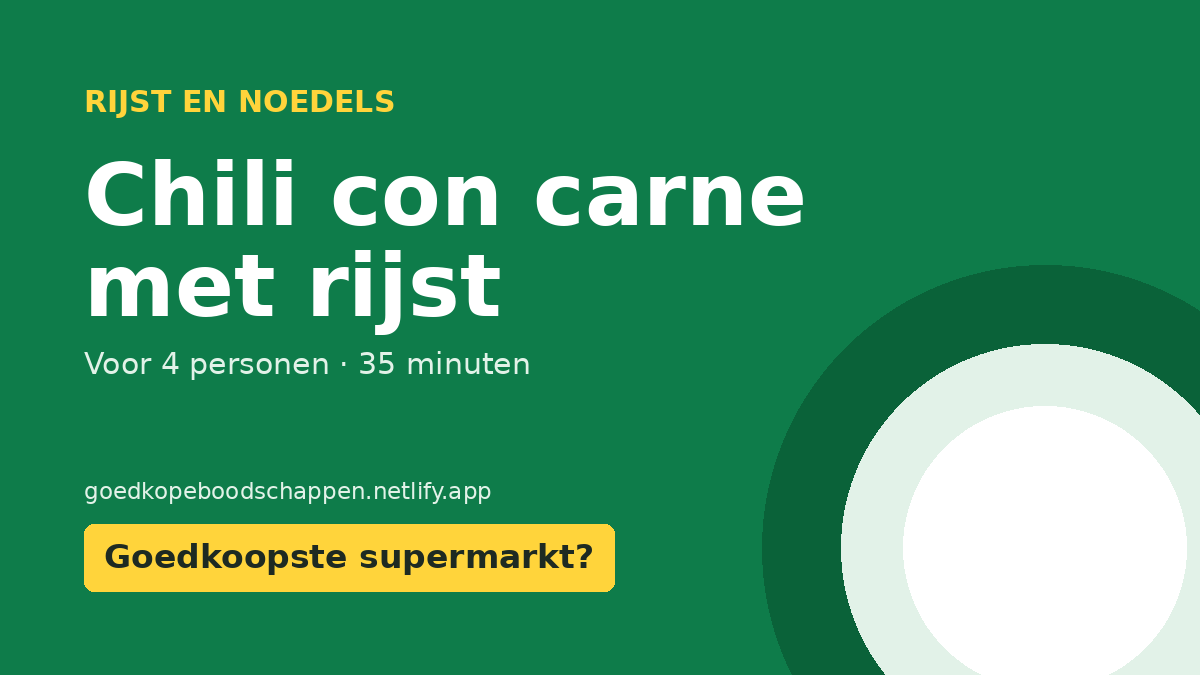
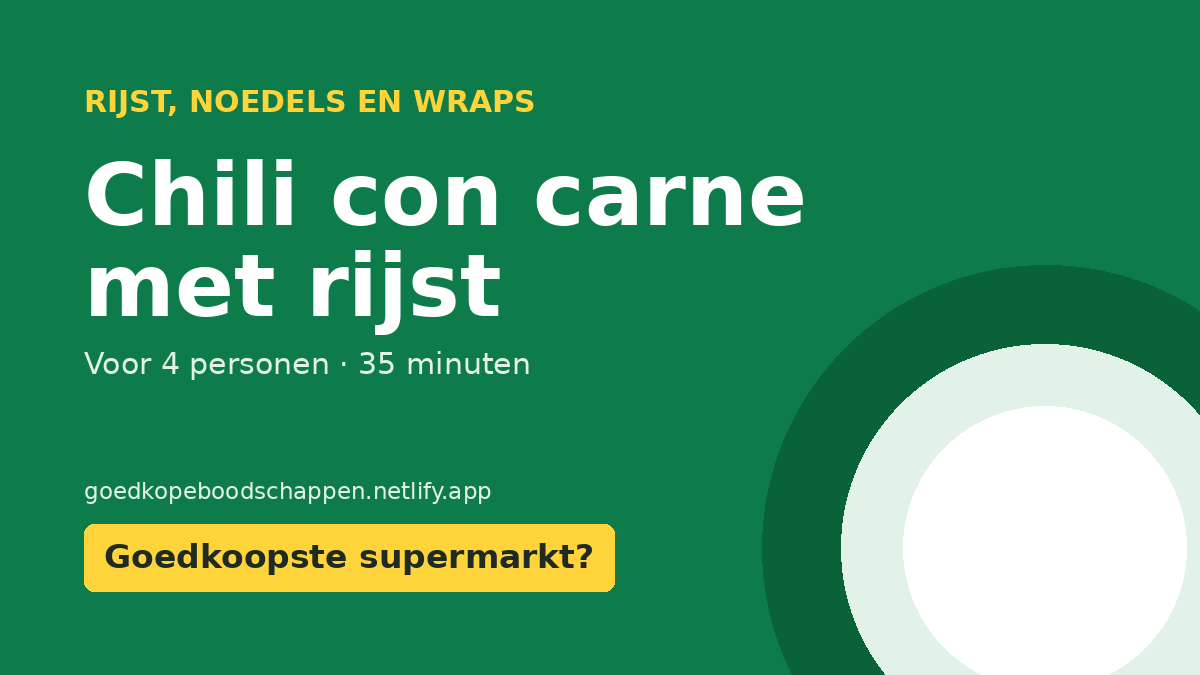
Werk in uitvoering: 39 nieuwe glutenvrije en caloriearme maaltijden (nog niet getest)
Claude-Session: https://claude.ai/code/session_019PF7mFHYVpjrzfeZoKPZYU

Changed region(s): [[0.1542, 0.1244, 0.4625, 0.1867]]

diff --git a/scripts/maaltijden_extra.py b/scripts/maaltijden_extra.py
@@ -1,0 +1,309 @@
+"""Extra recepten (oktober 2026): glutenvrij en caloriearm. Zelfde opbouw als maaltijden.py; wordt daar aan toegevoegd."""
+I_EXTRA = {
+    "zoete aardappel": (["zoete aardappelblokjes", "zoete aardappel blokjes", "zoete aardappelen", "zoete aardappel"], 90, .3, ["friet", "frites", "chips", "puree", "wedges", "soep", "partjes", "spiralen"]),
+    "limoen": (["limoenen", "limoen"], 30, .07, ["radler", "bier", "grolsch", "0.0", "sap", "siroop", "drink", "frisdrank", "taart", "blad", "rasp", "snoep", "water", "kalk", "geur", "zeep", "lime"]),
+    "citroen": (["citroenen", "citroen"], 30, .12, ["sap", "siroop", "drink", "frisdrank", "taart", "rasp", "snoep", "water", "thee", "gras", "geur", "zeep", "schoon", "afwas", "ijs", "limonade"]),
+    "bosui": (["bosui", "lente-ui", "lente uitjes", "bosuitjes"], 30, .1, ["soep", "saus"]),
+    "pompoen": (["flespompoen", "butternut pompoen", "pompoen"], 40, 1.0, ["soep", "pitten", "zaden", "blokjes", "puree", "ravioli", "taart", "kern", "olie", "spread", "hokkaido"]),
+    "pompoenblokjes": (["pompoenblokjes", "pompoen blokjes", "pompoen in blokjes", "flespompoen", "pompoen"], 40, None, ["soep", "pitten", "risotto", "zaden", "ravioli", "taart", "olie", "spread", "puree"]),
+    "knoflook": (["knoflook", "knoflookbol"], 130, .05, ["gemalen", "bot", "zeezout", "strooier", "saus", "poeder", "olie", "pasta", "brood", "dip", "kaas", "mayo", "chips", "pers", "gepeld", "gehakt", "puree", "boter", "korrels", "zwarte", "gedroogd", "vers gesneden", "worst", "salami", "toast", "ciabatta", "stokbrood"]),
+    "roomkaas kruiden": (["roomkaas knoflook kruiden", "roomkaas met kruiden", "kruidenroomkaas", "roomkaas kruiden"], 250, None, ["light", "vega", "zalm", "bieslook komkommer"]),
+    "tandoori pasta": (["tandoori kruidenpasta", "tandoori pasta", "kruidenmix kip tandoori", "mix voor kip tandoori", "kruidenmix tandoori"], 200, None, ["saus", "stoommaaltijd", "ovenschotel", "speklapjes", "wereldgerecht", "maaltijdpakket", "verspakket", "wrap", "tonight", "daily chef", "santa maria"]),
+    "kipfiletblokjes": (["kipfiletblokjes", "kipfilet blokjes", "kipblokjes", "kipfilet"], 110, None, ["gemarineerd", "gekruid", "shoarma", "kerrie", "tandoori", "pikant", "sate", "saté", "gerookt", "vega"]),
+    "cashewnoten": (["cashewnoten ongezouten", "cashewnoten naturel", "cashewnoten"], 580, None, ["gezouten", "honing", "chili", "mix", "pasta", "boter", "wasabi", "chocolade", "geroosterd zout", "pikant", "studenten"]),
+    "koriander": (["verse koriander", "koriander"], 25, None, ["naan", "brood", "hoemoes", "geitenkaas", "grootverpakking", "grote pot", "blad", "gemalen", "zaad", "gedroogd", "poeder", "diepvries"]),
+    "peterselie": (["verse peterselie", "platte peterselie", "krulpeterselie", "peterselie"], 40, None, ["gedroogd", "diepvries", "gemalen"]),
+    "munt": (["verse munt", "munt"], 40, None, ["thee", "snoep", "drop", "kauwgom", "chocolade", "gedroogd", "pastilles", "mints", "siroop", "saus"]),
+    "bieslook": (["verse bieslook", "bieslook"], 30, None, ["gedroogd", "roomkaas", "saus", "dip", "kaas", "diepvries", "mayo"]),
+    "salie": (["verse salie", "salie"], 40, None, ["gedroogd", "thee", "gemalen"]),
+    "paellarijst": (["paellarijst", "paella rijst", "risottorijst", "arborio"], 350, None, ["mix", "kant", "maaltijd", "pakket"]),
+    "ontbijtspek": (["bakbacon", "ontbijtspek", "bacon"], 400, None, ["rosti", "aviko", "vega", "chips", "kaas", "bites", "saus", "burger", "krokant", "bacon bits", "jam", "spread", "worst"]),
+    "augurken": (["augurken", "augurk"], 30, None, ["chips", "salade", "spread", "snack", "relish", "saus"]),
+    "yoghurt": (["halfvolle yoghurt", "magere yoghurt", "yoghurt naturel", "volle yoghurt"], 50, None, ["griekse", "drink", "aardbei", "vanille", "fruit", "kokos", "muesli", "kwark", "lactose", "soja", "plantaardig", "honing", "perzik", "framboos", "kers", "citroen", "mango", "skyr", "bulgaarse", "turkse"]),
+    "griekse yoghurt": (["griekse yoghurt", "yoghurt griekse stijl", "turkse yoghurt"], 120, None, ["honing", "fruit", "aardbei", "vanille", "light", "0%", "framboos", "perzik", "kers", "mango", "citroen", "drink"]),
+    "kabeljauw": (["kabeljauwfilet", "kabeljauwhaas", "kabeljauw", "koolvisfilet", "witvisfilet", "pangasiusfilet"], 80, None, ["gepaneerd", "kibbeling", "lekkerbek", "saus", "salade", "kruiden", "visstick", "gerookt", "rolletjes", "kat"]),
+    "venkel": (["venkel", "venkelknol"], 25, .3, ["zaad", "thee", "gemalen", "salami", "worst"]),
+    "quinoa": (["quinoa"], 360, None, ["salade", "mix", "kant", "maaltijd", "chips", "wafels", "pasta", "burger", "crackers", "pops", "puffs", "ontbijt"]),
+    "pecorino": (["pecorino", "pecorino romano"], 390, None, ["saus", "pesto", "pasta"]),
+    "gember": (["verse gember", "gemberwortel", "gember"], 80, .1, ["bakgember", "stemgember", "chinese", "power", "appel", "poeder", "gemalen", "siroop", "thee", "bier", "shot", "koek", "snoep", "gekonfijt", "ingelegd", "drink", "ale", "sushi", "chocolade", "bolus", "jam"]),
+    "biefstuk": (["bieflappen", "bieflap", "biefstuk", "runderbiefstuk"], 130, None, ["vega", "saus", "gemarineerd", "carpaccio", "tartaar", "gehakt", "gekruid", "ossenhaas", "rosbief", "kogel", "kipbiefstuk"]),
+    "sjalotten": (["sjalotten", "sjalot"], 70, .03, ["chutney", "vijgen", "gebakken", "chips", "saus", "poeder", "soep"]),
+    "groene paprika": (["groene paprika", "paprika groen", "paprika's", "paprika"], 20, .15, ["poeder", "chips", "gevuld", "mini", "snack", "rolnik", "pot", "reepjes"]),
+    "pitabroodjes": (["maaltijd pitabroodjes", "pitabroodjes", "pita broodjes", "pitabrood"], 260, .08, ["vul", "gyros", "shoarma", "chips", "salade", "mini", "glutenvrij"]),
+    "volkoren pita": (["volkoren pitabroodjes", "volkoren pita"], 250, .07, ["mini", "glutenvrij"]),
+    "geitenkaas": (["zachte geitenkaas", "geitenkaas naturel", "verse geitenkaas", "geitenkaas"], 250, None, ["honing", "plakken", "jong", "belegen", "oud", "geraspt", "salade", "spread", "pizza", "dip", "zwitserse", "kruiden", "tapas"]),
+    "volkorenpasta": (["volkoren penne", "volkorenpasta", "volkoren pasta", "volkoren fusilli"], 350, None, ["salade", "saus", "glutenvrij", "mix"]),
+    "volkorenspaghetti": (["volkoren spaghetti", "volkorenspaghetti"], 350, None, ["saus", "glutenvrij", "bolognese"]),
+    "roerbakgroente": (["italiaanse roerbakgroente", "italiaanse wokgroente", "roerbakgroente italiaans", "mediterrane roerbak", "roerbakgroente", "wokgroente"], 30, None, ["saus", "kip", "mie", "noodles", "rijst", "kruiden", "oosterse", "chinese", "thaise", "pittig", "teriyaki"]),
+    "kappertjes": (["kappertjes"], 25, None, ["appels", "boter", "saus", "tapenade", "olie"]),
+    "volkoren wraps": (["volkoren wraps", "volkoren tortilla", "wraps volkoren", "tortilla volkoren", "meergranen wraps"], 300, .04, ["chips", "glutenvrij", "mini", "pizza"]),
+    "bulgur": (["bulgur", "bulghur"], 350, None, ["salade", "mix", "kant", "maaltijd", "pilav"]),
+    "sambal": (["sambal oelek", "sambal"], 70, None, ["bajak", "manis", "badjak", "ijs", "chips", "kroepoek", "saus", "goreng", "terasi", "trassi", "pindasaus", "brandal"]),
+    "aubergine": (["aubergines", "aubergine"], 25, .3, ["gegrild", "pot", "saus", "ovengroente", "dip", "moussaka", "spread", "tapas", "salade"]),
+    "slagroom": (["slagroom", "verse slagroom", "kookroom"], 340, None, ["spuit", "spray", "taart", "ijs", "vla", "toetje", "plantaardig", "light", "gezoet", "poeder", "bus", "klopper", "stevig", "kers", "vanille"]),
+    "parmezaanse snippers": (["parmezaanse kaas snippers", "parmigiano snippers", "parmezaanse kaas", "grana padano"], 400, None, ["salami", "truffel", "worst", "saus", "pesto", "pasta", "chips", "crackers"]),
+    "kikkererwten": (["kikkererwten"], 120, None, ["meel", "chips", "snack", "salade", "spread", "hummus", "humus", "falafel", "curry", "soep", "gedroogd", "pasta", "geroosterd"]),
+    "zongedroogde tomaten": (["zongedroogde tomaten", "gedroogde tomaten", "zongedroogde tomaatjes", "pomodori secchi"], 200, None, ["pesto", "tapenade", "spread", "saus", "chips", "crackers", "brood", "dip", "kaas", "worst", "hummus", "pasta"]),
+    "mexicaanse groenten": (["mexicaanse groenten", "mexicaanse groentemix", "mexicaanse groenteschotel", "mexicaanse bonen"], 80, None, ["chips", "kruiden", "saus", "rijst", "maaltijd", "soep"]),
+    "eidooiers": (["scharreleieren", "eieren"], 140, .06, ["paas", "gekookt", "chocolade"]),
+    "tomaten rijp": (["roma tomaten", "pruimtomaten", "trostomaten", "tomaten"], 20, .1, ["cherry", "snoep", "blik", "blokjes", "gepeld", "gezeefd", "puree", "zongedroogd", "pomodori", "gedroogd"]),
+}
+
+I_EXTRA.update({
+    "edamame": (["edamame bonen", "edamamebonen", "edamame"], 120, None, ["snack", "gezouten", "chips", "dip", "spread", "noodles"]),
+    "bloemkoolrijst": (["bloemkoolrijst", "bloemkool rijst"], 25, None, ["kant", "nasi", "maaltijd", "kruiden", "mix", "bowl"]),
+    "pindakaas": (["pindakaas naturel", "pindakaas"], 600, None, ["chocolade", "reep", "koek", "saus", "vulling", "kokos", "honing", "chili", "crunchy chocolate"]),
+    "babymais": (["babymais", "baby mais", "minimais", "maiskolfjes"], 30, None, ["chips", "zuur", "pot", "glas"]),
+    "honing": (["honing", "bloemenhoning"], 330, None, ["mosterd", "yoghurt", "thee", "dressing", "saus", "drop", "snoep", "koek", "cereal", "pops", "cruesli", "loops", "granola", "kip", "ham", "nootjes", "pinda", "cashew", "gezichts", "shampoo", "zeep", "douche", "bodylotion"]),
+    "besciamelsaus": (["bechamelsaus", "béchamelsaus", "besciamella", "witte saus voor lasagne", "lasagnesaus wit", "lasagne witte saus"], 120, None, ["mix", "poeder", "pakje", "rode", "bolognese"]),
+    "aardappelschijfjes": (["aardappelschijfjes", "aardappel schijfjes"], 80, None, ["gekruid", "rozemarijn", "chips", "gratin", "kaas", "spek"]),
+    "panko": (["panko", "paneermeel"], 370, None, ["vis", "kip", "glutenvrij", "kruiden"]),
+    "spaghettigroente": (["macaroni spaghettigroente", "macaroni-spaghettigroente", "spaghettigroente", "spaghetti groente", "macaronigroente", "italiaanse roerbakgroente", "roerbakgroente italiaans", "italiaanse wokgroente", "roerbakgroente", "wokgroente"], 30, None, ["saus", "kruiden", "mix voor", "kip", "mie", "noodles", "rijst", "oosterse", "chinese", "thaise", "pittig", "teriyaki"]),
+    "chipotlesaus": (["chipotle saus", "chipotlesaus", "chipotle"], 120, None, ["chips", "mayo", "kip", "worst", "kruiden", "dip", "burger", "wrap"]),
+    "veldsla": (["veldsla"], 20, None, ["salade", "mix", "dressing", "kaas", "rucola"]),
+    "tzatziki": (["tzatziki", "knoflooksaus tzatziki"], 110, None, ["kruiden", "mix", "chips", "pot", "salade"]),
+    "witte bonen": (["witte bonen", "cannellini bonen", "witte bonen in water"], 90, None, ["tomatensaus", "saus", "salade", "soep", "spek", "ham", "worst", "gedroogd"]),
+    "olijven": (["groene olijven zonder pit", "zwarte olijven zonder pit", "olijven zonder pit", "olijven"], 150, None, ["olie", "tapenade", "gevuld", "knoflook", "kruiden", "paprika", "feta", "brood", "crackers", "chips", "mix", "tapas", "spread", "salami", "pizza"]),
+    "maiskolf": (["maiskolven", "maiskolf", "mais kolf"], 90, .25, ["chips", "baby", "mini", "pop", "olie", "meel"]),
+    "linzen gekookt": (["linzen in zak", "linzen", "groene linzen", "bruine linzen"], 100, None, ["rode", "soep", "chips", "pasta", "salade", "gedroogd", "curry", "spread", "dahl", "dal", "snack"]),
+    "blonde linzen": (["blonde linzen", "gedroogde linzen", "groene linzen", "bruine linzen", "linzen"], 330, None, ["rode", "soep", "chips", "pasta", "salade", "curry", "spread", "dahl", "dal", "snack", "pot", "blik", "zak", "gekookt"]),
+    "tuinbonen": (["tuinbonen", "tuinboontjes"], 70, None, ["pot", "blik", "spek", "gedroogd"]),
+    "stokbrood": (["volkoren stokbrood", "bruin stokbrood", "stokbrood", "baguette"], 250, .25, ["kruiden", "knoflook", "mini", "pizza", "afbak", "glutenvrij", "kaas"]),
+    "pijnboompitten": (["pijnboompitten"], 670, None, ["pesto", "mix", "salade"]),
+    "basilicum": (["verse basilicum", "basilicum"], 25, None, ["gedroogd", "pesto", "saus", "tomaten", "pasta", "olie", "kaas", "gemalen", "blokjes", "diepvries", "dip", "spread"]),
+    "amandelschaafsel": (["amandelschaafsel", "geschaafde amandelen", "amandelen geschaafd"], 600, None, ["chocolade", "koek", "melk", "drink", "spijs"]),
+    "kalkoenfilet": (["kalkoenfilet", "kalkoen filet", "kalkoenschnitzel"], 110, None, ["gerookt", "gerookte", "plakjes", "beleg", "vleeswaren", "gebraden", "kat", "hond", "paneer"]),
+    "volkorenbrood": (["volkoren brood", "volkorenbrood", "volkoren boterhammen", "tarwe volkoren"], 230, .035, ["beschuit", "crackers", "toast", "glutenvrij", "pita", "wraps", "stokbrood", "bollen", "broodjes", "mix", "meel"]),
+    "snijbonen": (["snijbonen"], 30, None, ["pot", "blik", "glas", "zuur"]),
+    "rode peper": (["rode peper", "rode pepers", "chilipeper", "spaanse peper"], 40, .02, ["saus", "poeder", "gedroogd", "vlokken", "pasta", "chips", "kaas", "gemalen", "worst", "zoete", "flakes", "olie", "sambal"]),
+    "tomaten blik": (["gepelde tomaten", "san marzano", "tomaten in blik", "tomatenblokjes"], 25, None, ["kruiden", "basilicum", "knoflook", "paprika", "cherry", "puree"]),
+    "kipfilet stuks": (["kipfilet"], 110, .15, ["gerookt", "gerookte", "chili", "gemarineerd", "mexicaan", "tandoori", "piri", "kebab", "pikant", "honing", "shoarma", "gegrild", "kruiden", "sweet", "beleg", "plakken", "vleeswaren", "gebraden"]),
+})
+GLUTEN_EXTRA2 = {"panko", "stokbrood", "volkorenbrood", "besciamelsaus"}
+GLUTEN_EXTRA = {"volkorenpasta", "volkorenspaghetti", "volkoren pita", "pitabroodjes", "volkoren wraps", "bulgur"} | GLUTEN_EXTRA2
+LET_OP_EXTRA = {"tandoori pasta", "chipotlesaus", "aardappelschijfjes", "tzatziki"}
+LET_OP_WOORDEN_EXTRA = ("tandoori", "shakshuka", "garam masala", "viskruiden")
+
+def _o(k, q, n): return (k, q, n, "o")
+def _v(n, q, kcal=300): return ("olie", q, n, "v", kcal)
+OLIE = lambda q, n="Olie, peper en zout": ("olie", q, n, "v", 880)
+MAALTIJDEN_EXTRA = [
+    {"slug": "zoete-aardappelcurry", "naam": "Zoete-aardappelcurry met bloemkool en rijst", "soort": "wereld", "tijd": 30,
+     "bron": ("Jumbo", "https://www.jumbo.com/recepten/zoete-aardappelcurry-504005"),
+     "ing": [("zoete aardappel", .4, "Zoete aardappelblokjes"), ("bloemkool", .2, "Bloemkoolroosjes"), ("kokosmelk", .4, "Kokosmelk"), ("rijst", .25, "Basmatirijst"),
+             ("cherrytomaten", .25, "Cherrytomaten"), ("uien", .1, "Ui"), _o("bosui", .03, "Bosuien (2)"), _o("limoen", .07, "Limoen"),
+             OLIE(.045, "Zonnebloemolie"), _v("Kerriepoeder (Indiase curry madras)", .015, 330)]},
+    {"slug": "pompoensoep", "naam": "Pompoensoep", "soort": "soep", "tijd": 25, "porties": 2,
+     "bron": ("Eef kookt zo", "https://www.eefkooktzo.nl/pompoensoep/"),
+     "ing": [("pompoen", .75, "Flespompoen"), ("aardappelen", .1, "Aardappel"), ("uien", .2, "Uien (2)"), ("knoflook", .01, "Knoflook (2 tenen)"),
+             _o("kookroom", .1, "Kookroom"), OLIE(.015, "Olijfolie, peper en zout"), _v("Komijn en kurkuma", .004, 350), _v("Bouillon (1 liter)", .01, 200)]},
+    {"slug": "gevulde-courgette", "naam": "Gevulde courgette met gehakt", "soort": "oven", "tijd": 45,
+     "bron": ("Eef kookt zo", "https://www.eefkooktzo.nl/gevulde-courgette/"),
+     "ing": [("courgette", 1.2, "Courgettes (4)"), ("gehakt", .3, "Gehakt"), ("paprika", .3, "Paprika's (1 rood, 1 groen)"), ("mais", .075, "Maïs"),
+             ("uien", .1, "Ui"), ("knoflook", .005, "Knoflook"), ("tomatenpuree", .015, "Tomatenpuree"), _o("geraspte kaas", .05, "Geraspte kaas"),
+             OLIE(.015, "Olijfolie, peper en zout"), _v("Kurkuma, paprikapoeder en peterselie", .006, 300)]},
+    {"slug": "preischotel-aardappel", "naam": "Preischotel met aardappel en roomkaas", "soort": "oven", "tijd": 40, "porties": 2,
+     "bron": ("Lekker en Simpel", "https://www.lekkerensimpel.com/preischotel-met-aardappel/"),
+     "ing": [("aardappelen", .4, "Aardappelen"), ("prei", .5, "Preien (2)"), ("roomkaas kruiden", .125, "Roomkaas met kruiden"), ("knoflook", .005, "Knoflook"),
+             ("geraspte kaas", .05, "Geraspte kaas"), _v("Zout en peper", .001, 0)]},
+    {"slug": "kip-tandoori-rijst", "naam": "Indiase kip tandoori met rijst", "soort": "wereld", "tijd": 20,
+     "bron": ("Jumbo", "https://www.jumbo.com/recepten/indiase-kip-tandoori-504803"),
+     "ing": [("kipfiletblokjes", .275, "Kipfiletblokjes"), ("rijst", .3, "Rijst"), ("tandoori pasta", .075, "Tandoori kruidenpasta"), ("paprika", .15, "Paprika"),
+             ("courgette", .3, "Courgette"), ("uien", .1, "Ui"), _o("cashewnoten", .03, "Cashewnoten"), _o("koriander", .008, "Verse koriander"),
+             _o("limoen", .07, "Limoen"), OLIE(.03, "Zonnebloemolie")]},
+    {"slug": "paella-met-kip", "naam": "Paella met kip", "soort": "rijst", "tijd": 25, "porties": 2,
+     "bron": ("Lekker en Simpel", "https://www.lekkerensimpel.com/paella-met-kip/"),
+     "ing": [("paellarijst", .15, "Paellarijst"), ("kipfilet", .25, "Kipfilet"), ("doperwten", .2, "Doperwten"), ("paprika", .15, "Paprika"),
+             ("tomaten", .2, "Tomaten (2)"), ("uien", .1, "Ui"), ("knoflook", .01, "Knoflook (2 tenen)"), _o("citroen", .06, "Citroen (scheutje sap)"),
+             _v("Kippenbouillon (500 ml)", .005, 200), _v("Paprikapoeder, zout en peper", .003, 300), OLIE(.01, "Olie")]},
+    {"slug": "turkse-linzensoep", "naam": "Turkse linzensoep", "soort": "soep", "tijd": 50, "porties": 5,
+     "bron": ("Eef kookt zo", "https://www.eefkooktzo.nl/linzensoep-turkse-linzensoep/"),
+     "ing": [("rode linzen", .175, "Rode linzen"), ("aardappelen", .2, "Aardappelen (2 kleine)"), ("winterpeen", .3, "Wortels (2)"), ("tomaten", .2, "Tomaten (2)"),
+             ("uien", .1, "Ui"), ("knoflook", .005, "Knoflook"), ("tomatenpuree", .008, "Tomatenpuree"),
+             _v("Bouillonblokje", .01, 200), _v("Paprikapoeder en chilivlokken", .004, 300), OLIE(.015, "Olie")]},
+    {"slug": "vis-ovenschotel-spinazie", "naam": "Vis-ovenschotel met spinazie en puree", "soort": "oven", "tijd": 50,
+     "bron": ("Uit Pauline's Keuken", "https://uitpaulineskeuken.nl/recept/vis-ovenschotel"),
+     "ing": [("kabeljauw", .4, "Kabeljauwfilet (of andere witvis)"), ("aardappelen", .8, "Kruimige aardappelen"), ("spinazie", .8, "Spinazie"), ("venkel", .3, "Venkel"),
+             ("uien", .1, "Ui"), ("citroen", .12, "Citroen"), ("eieren", .06, "Ei"), ("geraspte kaas", .06, "Geraspte belegen kaas"),
+             ("creme fraiche", .25, "Crème fraîche"), ("pesto", .045, "Pesto"), _v("Venkelzaad", .004, 340), OLIE(.015, "Olijfolie, peper en zout")]},
+    {"slug": "mexicaans-eenpansgerecht-rijst", "naam": "Mexicaans eenpansgerecht met rijst en gehakt", "soort": "rijst", "tijd": 25, "porties": 2,
+     "bron": ("Lekker en Simpel", "https://www.lekkerensimpel.com/mexicaans-eenpansgerecht-met-rijst/"),
+     "ing": [("rijst", .15, "Rijst"), ("gehakt", .2, "Gehakt"), ("bonenmix", .2, "Mexicaanse groenten of bonen (blik)"), ("mais", .14, "Maïs (blikje)"),
+             ("tomatenpuree", .07, "Tomatenpuree (blikje)"), ("paprika", .15, "Paprika"), ("uien", .1, "Ui"),
+             _v("Komijn, paprikapoeder, zout en peper", .004, 300), _v("Bouillonblokje (half)", .005, 200)]},
+    {"slug": "quinoasalade-tonijn-avocado", "naam": "Quinoasalade met tonijn en avocado", "soort": "salade", "tijd": 30, "porties": 2,
+     "bron": ("Voedingscentrum", "https://www.voedingscentrum.nl/recepten/gezond-recept/quinoasalade-met-tonijn-en-avocado.aspx"),
+     "ing": [("quinoa", .15, "Quinoa"), ("tonijn", .12, "Tonijn op water"), ("avocado", .2, "Avocado"), ("cherrytomaten", .25, "Kerstomaten"),
+             ("prei", .25, "Prei"), ("citroen", .06, "Citroen (half)"), _o("koriander", .005, "Verse koriander of peterselie"),
+             OLIE(.015, "Olie"), _v("Komijnzaad en peper", .003, 375)]},
+    {"slug": "pompoenrisotto", "naam": "Pompoenrisotto met salie", "soort": "rijst", "tijd": 25,
+     "bron": ("Jumbo", "https://www.jumbo.com/recepten/pompoenrisotto-504066"),
+     "ing": [("risottorijst", .3, "Risottorijst"), ("pompoenblokjes", .4, "Pompoenblokjes"), ("pecorino", .05, "Pecorino"), ("roomboter", .03, "Roomboter"),
+             ("uien", .1, "Ui"), ("knoflook", .005, "Knoflook"), _o("salie", .005, "Salie (2 takjes)"), _v("Kippenbouillonblokjes (2)", .02, 200)]},
+    {"slug": "ovenschotel-aardappel-kip", "naam": "Ovenschotel met aardappel, kip en broccoli", "soort": "oven", "tijd": 50, "porties": 2,
+     "bron": ("Lekker en Simpel", "https://www.lekkerensimpel.com/ovenschotel-met-aardappel-en-kip/"),
+     "ing": [("aardappelen", .5, "Aardappelen (2 à 3 grote)"), ("kipfilet", .3, "Kipfilet"), ("broccoli", .25, "Broccoli (half)"), ("paprika", .15, "Paprika"),
+             ("uien", .1, "Ui"), ("kookroom", .2, "Kookroom"), ("ontbijtspek", .05, "Spek (3 plakjes)"), ("geraspte kaas", .05, "Geraspte kaas"),
+             _v("Paprikapoeder, tijm, zout en peper", .005, 300), OLIE(.01, "Olie")]},
+    {"slug": "aardappel-bloemkoolcurry-bief", "naam": "Aardappel-bloemkoolcurry met bief", "soort": "aardappel", "tijd": 30, "porties": 2,
+     "bron": ("Voedingscentrum", "https://www.voedingscentrum.nl/recepten/gezond-recept/aardappel-bloemkoolcurry-met-bief.aspx"),
+     "ing": [("aardappelen", .5, "Aardappelen"), ("bloemkool", .5, "Bloemkool"), ("biefstuk", .15, "Bieflap"), ("tomaten", .2, "Trostomaten (2)"),
+             ("yoghurt", .075, "Halfvolle yoghurt"), ("gember", .015, "Gember"), ("knoflook", .005, "Knoflook"), _o("koriander", .005, "Verse koriander"),
+             OLIE(.045, "Olie"), _v("Komijnzaad, koriander, chilipoeder en kurkuma", .008, 330), _v("Bouillontablet (half)", .005, 200)]},
+    {"slug": "roerbak-kip-krieltjes", "naam": "Groene roerbakgroente met kip en gebakken krieltjes", "soort": "aardappel", "tijd": 30, "porties": 2,
+     "bron": ("Voedingscentrum", "https://www.voedingscentrum.nl/recepten/gezond-recept/groene-roerbakgroente-met-kip-en-gebakken-krieltjes.aspx"),
+     "ing": [("krieltjes", .5, "Krieltjes"), ("kipfilet", .2, "Kipfilet"), ("broccoli", .25, "Broccoli"), ("groene paprika", .3, "Groene paprika's (2)"),
+             ("peultjes", .1, "Peultjes"), ("prei", .05, "Prei"), ("knoflook", .005, "Knoflook"), _o("citroen", .06, "Citroensap"),
+             ("olie", .045, "Vloeibare margarine en peper", "v", 720)]},
+    {"slug": "shakshuka-paprika", "naam": "Shakshuka met paprika, geitenkaas en pita", "soort": "oven", "tijd": 40, "porties": 2,
+     "bron": ("Voedingscentrum", "https://www.voedingscentrum.nl/recepten/gezond-recept/shakshuka-met-paprika.aspx"),
+     "ing": [("eieren", .24, "Eieren (4)"), ("tomatenblokjes", .6, "Tomatenblokjes"), ("paprika", .3, "Rode paprika's (2)"), ("uien", .1, "Ui"),
+             ("knoflook", .01, "Knoflook (2 tenen)"), ("geitenkaas", .04, "Zachte geitenkaas"), ("volkoren pita", .14, "Volkoren pita's (2)"),
+             _o("koriander", .01, "Verse koriander of peterselie"), OLIE(.03, "Olijfolie"), _v("Shakshukakruiden", .008, 300)]},
+    {"slug": "penne-tonijn-roerbakgroente", "naam": "Volkoren penne met tonijn en roerbakgroente", "soort": "pasta", "tijd": 30, "porties": 2,
+     "bron": ("Voedingscentrum", "https://www.voedingscentrum.nl/recepten/gezond-recept/penne-met-tonijn-en-roerbakgroente.aspx"),
+     "ing": [("volkorenpasta", .2, "Volkoren penne"), ("tonijn", .14, "Tonijn op water"), ("roerbakgroente", .25, "Italiaanse roerbakgroente"),
+             ("tomatenblokjes", .2, "Tomatenblokjes"), _o("kappertjes", .01, "Kappertjes"), OLIE(.015, "Olie"), _v("Provençaalse kruiden en peper", .002, 300)]},
+    {"slug": "wraps-guacamole-kidneybonen", "naam": "Volkoren wraps met guacamole en kidneybonen", "soort": "rijst", "tijd": 15, "porties": 2,
+     "bron": ("Voedingscentrum", "https://www.voedingscentrum.nl/recepten/gezond-recept/wrap-met-guacamole-en-kidneybonen.aspx"),
+     "ing": [("volkoren wraps", .08, "Volkoren wraps (2)"), ("avocado", .1, "Avocado (half)"), ("kidneybonen", .05, "Kidneybonen"), ("mais", .05, "Maïs"),
+             ("tomaten", .1, "Tomaat"), ("paprika", .075, "Rode paprika (half)"), ("sla", .05, "IJsbergsla"), ("sjalotten", .03, "Sjalot"), ("knoflook", .003, "Knoflook")]},
+    {"slug": "bulgursalade-kisir", "naam": "Turkse bulgursalade (kısır)", "soort": "salade", "tijd": 20,
+     "bron": ("Eef kookt zo", "https://www.eefkooktzo.nl/bulgursalade-kisir/"),
+     "ing": [("bulgur", .25, "Bulgur (extra fijn)"), ("tomatenpuree", .07, "Tomatenpuree (klein blikje)"), ("komkommer", .2, "Komkommer (half)"), ("tomaten", .1, "Tomaat"),
+             ("rode uien", .1, "Rode ui"), _o("bosui", .03, "Bosui"), _o("peterselie", .01, "Verse peterselie"), _o("munt", .005, "Verse munt"),
+             _o("bieslook", .01, "Bieslook"), _o("citroen", .03, "Citroensap"), OLIE(.03, "Olijfolie, zout en peper"), _v("Sambal en cayennepeper", .004, 70)]},
+    {"slug": "minestrone-met-gehakt", "naam": "Minestronesoep met gehakt", "soort": "soep", "tijd": 25,
+     "bron": ("Uit Pauline's Keuken", "https://uitpaulineskeuken.nl/recept/minestronesoep"),
+     "ing": [("rundergehakt", .3, "Rundergehakt"), ("courgette", .6, "Courgettes (2)"), ("aubergine", .6, "Aubergines (2)"), ("gezeefde tomaten", .5, "Passata"),
+             ("pasta", .1, "Pasta"), ("cherrytomaten", .15, "Trostomaatjes (10)"), ("uien", .1, "Ui"), ("knoflook", .005, "Knoflook"),
+             OLIE(.03, "Olijfolie, zout en peper"), _v("Bouillon (500 ml)", .005, 200), _v("Balsamicoazijn", .06, 100)]},
+    {"slug": "pita-kipgyros", "naam": "Pita kipgyros met tzatziki", "soort": "wereld", "tijd": 45,
+     "bron": ("Jumbo", "https://www.jumbo.com/recepten/pita-kipgyros-504318"),
+     "ing": [("kipdijfilet", .55, "Kipdijfilet"), ("pitabroodjes", .32, "Pitabroodjes (4)"), ("griekse yoghurt", .3, "Griekse yoghurt"), ("komkommer", .4, "Komkommer"),
+             ("sla", .4, "IJsbergsla"), ("knoflook", .015, "Knoflook (3 tenen)"), _o("munt", .015, "Verse munt"),
+             OLIE(.045, "Olijfolie"), _v("Paprikapoeder, kaneel en komijn", .006, 330)]},
+    {"slug": "volkorenspaghetti-courgette-champignons", "naam": "Romige volkorenspaghetti met courgette en champignons", "soort": "pasta", "tijd": 20,
+     "bron": ("Jumbo", "https://www.jumbo.com/recepten/romige-volkorenspaghetti-met-courgette-en-champignons-502289"),
+     "ing": [("volkorenspaghetti", .3, "Volkorenspaghetti"), ("courgette", .6, "Courgettes (2)"), ("champignons", .25, "Champignons"),
+             ("eidooiers", .1, "Eidooiers (van 5 eieren)"), ("slagroom", .075, "Slagroom"), ("parmezaanse snippers", .05, "Parmezaanse kaas"),
+             ("knoflook", .01, "Knoflook (2 tenen)"), OLIE(.03, "Olijfolie en peper")]},
+    {"slug": "couscoussalade-kikkererwten", "naam": "Couscoussalade met kikkererwten", "soort": "salade", "tijd": 20,
+     "bron": ("Jumbo", "https://www.jumbo.com/recepten/couscoussalade-1573"),
+     "ing": [("couscous", .1, "Couscous"), ("kikkererwten", .4, "Kikkererwten"), ("tomaten rijp", .4, "Trostomaten"), ("zongedroogde tomaten", .04, "Zongedroogde tomaatjes (8)"),
+             ("bleekselderij", .1, "Bleekselderij (2 stengels)"), _o("bosui", .06, "Lente-uitjes (4)"), _o("koriander", .01, "Koriander"), _o("munt", .003, "Munt"),
+             OLIE(.15, "Olijfolie, sherryazijn, zout en peper")]},
+]
+MAALTIJDEN_EXTRA += [
+    {"slug": "linzensoep-rookworst", "naam": "Linzensoep met rookworst", "soort": "soep", "tijd": 50,
+     "bron": ("Allerhande", "https://www.ah.nl/allerhande/recept/R-R480264/linzensoep"),
+     "ing": [("blonde linzen", .25, "Gedroogde blonde linzen"), ("rookworst", .275, "Runderrookworst"), ("aardappelen", .2, "Vastkokende aardappelen (2)"),
+             ("winterpeen", .15, "Winterpeen"), ("bleekselderij", .05, "Bleekselderij (1 stengel)"), ("uien", .1, "Ui"), ("knoflook", .01, "Knoflook (2 tenen)"),
+             ("citroen", .06, "Citroen (half)"), _o("peterselie", .01, "Verse peterselie"), OLIE(.015, "Olijfolie"),
+             _v("Groentebouillon (1 liter), laurier en kruidnagel", .01, 200)]},
+    {"slug": "courgette-bonensoep-geitenkaas", "naam": "Maaltijdsoep met courgette, bonen en geitenkaas", "soort": "soep", "tijd": 15, "porties": 2,
+     "bron": ("Voedingscentrum", "https://www.voedingscentrum.nl/recepten/gezond-recept/maaltijdsoep-met-groen-en-bonen.aspx"),
+     "ing": [("courgette", .3, "Courgette"), ("doperwten", .1, "Doperwten (diepvries)"), ("tuinbonen", .1, "Tuinbonen (diepvries)"), ("bonenmix", .25, "Bruine bonen (blik)"),
+             ("geitenkaas", .04, "Zachte geitenkaas"), ("stokbrood", .125, "Volkoren stokbrood (half)"), ("citroen", .06, "Citroen (half)"),
+             _o("basilicum", .005, "Verse basilicum"), OLIE(.015, "Olie"), _v("Kerriepoeder en bouillontablet", .01, 300)]},
+    {"slug": "tomaat-paprikasoep-kip", "naam": "Tomaat-paprikasoep met kipfilet", "soort": "soep", "tijd": 30, "porties": 1,
+     "bron": ("HelloFresh", "https://www.hellofresh.nl/recipes/tomaat-paprikasoep-met-gepocheerde-kipfilet-6350fe72ad159f14c304aaa2"),
+     "ing": [("tomaten", .2, "Tomaten (2)"), ("kipfilet stuks", .15, "Kipfilet"), ("paprika", .075, "Paprika (half)"), ("rode uien", .05, "Rode ui (half)"),
+             ("knoflook", .005, "Knoflook"), ("volkorenbrood", .05, "Broodje"), _o("rode peper", .005, "Rode peper"), _o("peterselie", .0025, "Verse peterselie"),
+             OLIE(.01, "Olijfolie, peper en zout"), _v("Groentebouillon, suiker en gerookt paprikapoeder", .006, 300)]},
+    {"slug": "visfilet-courgette-tomaat", "naam": "Visfilet met courgette, tomaat en puree", "soort": "aardappel", "tijd": 40, "porties": 2,
+     "bron": ("Voedingscentrum", "https://www.voedingscentrum.nl/recepten/gezond-recept/visfilet-met-courgette-en-tomaat.aspx"),
+     "ing": [("kabeljauw", .2, "Visfilet (pangasius, wijting of tilapia)"), ("aardappelen", .5, "Aardappelen"), ("courgette", .3, "Courgette"), ("tomaten", .2, "Tomaten (2)"),
+             ("halfvolle melk", .15, "Halfvolle melk"), ("pijnboompitten", .01, "Pijnboompitten"), _o("basilicum", .01, "Basilicum (8 takjes)"),
+             OLIE(.03, "Olijfolie"), _v("Oregano, peper en nootmuskaat", .002, 300)]},
+    {"slug": "stamppot-rauwe-spinazie-kip", "naam": "Stamppot rauwe spinazie met kip", "soort": "aardappel", "tijd": 30,
+     "bron": ("Allerhande", "https://www.ah.nl/allerhande/recept/R-R377992/stamppot-rauwe-spinazie-met-kip"),
+     "ing": [("aardappelen", 1, "Kruimige aardappelen"), ("spinazie", .6, "Panklare spinazie"), ("kipfilet", .5, "Kipfilets (4 kleine)"), ("kookroom", .125, "Kookroom"),
+             ("amandelschaafsel", .05, "Amandelschaafsel"), ("uien", .15, "Grote ui"), ("roomboter", .025, "Boter"), _v("Milde kerriepoeder", .008, 330)]},
+    {"slug": "kalkoenfilet-groene-groenten", "naam": "Kalkoenfilet met groene groenten en krieltjes", "soort": "aardappel", "tijd": 25,
+     "bron": ("Jumbo", "https://www.jumbo.com/recepten/kalkoenfilet-met-groene-groenten-37637"),
+     "ing": [("kalkoenfilet", .4, "Kalkoenfilet"), ("krieltjes", .45, "Krielaardappelen"), ("broccoli", .4, "Broccoli"), ("peultjes", .4, "Peulen en sugar snaps"),
+             ("slagroom", .25, "Slagroom"), ("citroen", .12, "Citroen"), OLIE(.03, "Olijfolie, zout en peper")]},
+    {"slug": "groente-omelet", "naam": "Groente-omelet met volkorenbrood", "soort": "oven", "tijd": 30, "porties": 2,
+     "bron": ("Voedingscentrum", "https://www.voedingscentrum.nl/recepten/gezond-recept/groente-omelet.aspx"),
+     "ing": [("eieren", .24, "Eieren (4)"), ("courgette", .3, "Courgette"), ("tomaten", .4, "Tomaten (4)"), ("groene paprika", .15, "Groene paprika"), ("uien", .1, "Ui"),
+             ("halfvolle melk", .05, "Halfvolle melk"), _o("volkorenbrood", .14, "Volkoren boterhammen (4)"), OLIE(.03, "Olie en peper")]},
+    {"slug": "ovenschotel-vis-snijbonen", "naam": "Ovenschotel met vis, snijbonen en aardappelschijfjes", "soort": "oven", "tijd": 45, "porties": 2,
+     "bron": ("Voedingscentrum", "https://www.voedingscentrum.nl/recepten/gezond-recept/ovenschotel-met-vis-groente-en-aardappelschijfjes.aspx"),
+     "ing": [("aardappelen", .5, "Aardappelen"), ("snijbonen", .3, "Snijbonen"), ("kabeljauw", .2, "Visfilet (pangasius of tilapia)"), ("paprika", .15, "Rode paprika"),
+             ("geraspte kaas", .04, "Geraspte belegen kaas 30+"), ("beschuit", .01, "Volkoren beschuit"),
+             ("olie", .015, "Vloeibare margarine", "v", 720), _v("Viskruiden zonder zout", .002, 300)]},
+    {"slug": "spinazieschotel-met-ei", "naam": "Spinazieschotel met ei en aardappelschijfjes", "soort": "oven", "tijd": 50,
+     "bron": ("Allerhande", "https://www.ah.nl/allerhande/recept/R-R655294/spinazieschotel-met-ei"),
+     "ing": [("eieren", .36, "Eieren (6)"), ("spinazie", .6, "Verse spinazie"), ("aardappelschijfjes", .6, "Aardappelschijfjes (diepvries)"), ("besciamelsaus", .4, "Besciamellasaus"),
+             ("tomaten", .3, "Tomaten (3)"), ("uien", .1, "Ui"), OLIE(.015, "Olijfolie"), _v("Gedroogde oregano", .001, 300)]},
+    {"slug": "kabeljauw-wortelpuree", "naam": "Kabeljauw met krokant korstje en wortel-bloemkoolpuree", "soort": "oven", "tijd": 35,
+     "bron": ("Leuke Recepten", "https://www.leukerecepten.nl/light-recept-kabeljauw-wortelpuree/"),
+     "ing": [("kabeljauw", .6, "Kabeljauw (4 stukken)"), ("winterpeen", .5, "Wortels"), ("bloemkool", .7, "Bloemkool"), ("uien", .1, "Ui"), ("panko", .05, "Panko of paneermeel"),
+             ("knoflook", .005, "Knoflook"), _o("peterselie", .005, "Peterselie"), _o("citroen", .03, "Citroensap"),
+             OLIE(.045, "Olijfolie, peper en zout"), _v("Garam masala", .001, 300)]},
+    {"slug": "volkorenpasta-spinazie-tonijn", "naam": "Volkorenpasta met spinazie en tonijn", "soort": "pasta", "tijd": 15,
+     "bron": ("Allerhande", "https://www.ah.nl/allerhande/recept/R-R1191962/volkorenpasta-met-spinazie-en-tonijn"),
+     "ing": [("volkorenpasta", .3, "Volkoren penne rigate"), ("tonijn", .32, "Tonijn in water"), ("spinazie", .4, "Verse spinazie"), ("spaghettigroente", .45, "Macaroni-spaghettigroente"),
+             ("tomaten blik", .85, "Tomaten in blik"), ("knoflook", .01, "Knoflook (2 tenen)"), _o("basilicum", .025, "Verse Italiaanse kruiden")]},
+    {"slug": "pasta-met-groenten", "naam": "Pasta met geroosterde groenten", "soort": "pasta", "tijd": 45,
+     "bron": ("Eef kookt zo", "https://www.eefkooktzo.nl/pasta-met-groenten/"),
+     "ing": [("volkorenpasta", .2, "Half volkoren fusilli"), ("paprika", .3, "Rode paprika's (2)"), ("winterpeen", .3, "Wortels (3)"), ("cherrytomaten", .5, "Cherrytomaten"),
+             ("rode uien", .1, "Rode ui"), ("knoflook", .05, "Knoflook (1 bol)"), ("kookroom", .05, "Kookroom"), _o("basilicum", .01, "Verse basilicum"),
+             OLIE(.03, "Olijfolie, peper en zout"), _v("Oregano en paprikapoeder", .004, 300)]},
+    {"slug": "bloemkoolrijstbowl-kip-pindasaus", "naam": "Bloemkoolrijstbowl met kip, groente en pindasaus", "soort": "rijst", "tijd": 20, "porties": 2,
+     "bron": ("Allerhande", "https://www.ah.nl/allerhande/recept/R-R1199073/bloemkoolrijstbowl-met-kip-groente-en-pindasaus"),
+     "ing": [("bloemkoolrijst", .2, "Bloemkoolrijst"), ("kipdijfilet", .195, "Kipdijfilet"), ("edamame", .1, "Edamamebonen (diepvries)"), ("winterpeen", .1, "Winterpeen"),
+             ("rode kool", .1, "Rode kool"), ("pindakaas", .04, "Pindakaas"), ("sojasaus", .022, "Sojasaus"), ("limoen", .035, "Limoen (half)"),
+             ("knoflook", .005, "Knoflook"), OLIE(.015, "Milde olijfolie")]},
+    {"slug": "roerbak-kip-woksaus", "naam": "Roerbakgroente met kip, woksaus en rijst", "soort": "rijst", "tijd": 30,
+     "bron": ("Leuke Recepten", "https://www.leukerecepten.nl/light-recept-roerbak-groenten-met-kip-en-woksaus/"),
+     "ing": [("kipfilet", .4, "Kipfilet"), ("rijst", .225, "Rijst"), ("babymais", .4, "Babymais"), ("champignons", .25, "Champignons"), ("peultjes", .2, "Peultjes"),
+             ("broccoli", .2, "Broccoli"), ("sojasaus", .06, "Sojasaus"), ("honing", .06, "Honing"), ("gember", .02, "Gember"), ("knoflook", .015, "Knoflook (3 tenen)"),
+             OLIE(.015, "Olie en chilipoeder"), _v("Maïzena", .009, 350)]},
+    {"slug": "traybake-kip-zwarte-bonen", "naam": "Traybake met kip, paprika en zwarte bonen", "soort": "wereld", "tijd": 45,
+     "bron": ("Allerhande", "https://www.ah.nl/allerhande/recept/R-R1194169/traybake-met-kip-paprika-zwarte-bonen-en-chipotle"),
+     "ing": [("kipdijfilet", .5, "Kipdijfilets (4)"), ("zwarte bonen", .8, "Zwarte bonen"), ("paprika", .45, "Paprikamix (3)"), ("cherrytomaten", .19, "Trostomaatjes"),
+             ("chipotlesaus", .1, "Chipotlesaus"), ("creme fraiche", .125, "Crème fraîche"), ("limoen", .07, "Limoen"), _o("bosui", .045, "Bosuitjes (3)"),
+             _o("koriander", .015, "Verse koriander"), OLIE(.03, "Arachideolie")]},
+    {"slug": "pita-griekse-kip", "naam": "Volkoren pita met Griekse kip", "soort": "wereld", "tijd": 20,
+     "bron": ("Eef kookt zo", "https://www.eefkooktzo.nl/pita-met-griekse-kip/"),
+     "ing": [("volkoren pita", .28, "Volkoren pita's (4)"), ("kipfilet", .35, "Kipfilet"), ("komkommer", .4, "Komkommer"), ("cherrytomaten", .15, "Cherrytomaten"),
+             ("veldsla", .075, "Veldsla"), ("rode uien", .1, "Rode ui"), ("griekse yoghurt", .03, "Griekse yoghurt"), ("knoflook", .01, "Knoflook (2 tenen)"),
+             _o("tzatziki", .1, "Tzatziki"), _o("citroen", .03, "Citroensap"), _o("honing", .02, "Honing"),
+             OLIE(.015, "Olijfolie, azijn, peper en zout"), _v("Oregano, komijn en paprikapoeder", .01, 330)]},
+    {"slug": "bonensalade-tonijn", "naam": "Bonensalade met tonijn", "soort": "salade", "tijd": 15, "porties": 2,
+     "bron": ("Voedingscentrum", "https://www.voedingscentrum.nl/recepten/gezond-recept/bonensalade-met-tonijn.aspx"),
+     "ing": [("witte bonen", .25, "Witte bonen"), ("kidneybonen", .25, "Kidneybonen"), ("tonijn", .14, "Tonijn op water"), ("tomaten", .3, "Tomaten (3)"),
+             ("komkommer", .2, "Komkommer (half)"), ("rode uien", .05, "Rode ui (half)"), ("olijven", .02, "Olijven zonder pit (5)"), _o("peterselie", .005, "Verse peterselie"),
+             _o("citroen", .03, "Citroensap"), OLIE(.03, "Olijfolie"), _v("Italiaanse kruiden en peper", .002, 300)]},
+    {"slug": "quinoasalade-linzen", "naam": "Quinoasalade met linzen, mais en witte kaas", "soort": "salade", "tijd": 25, "porties": 2,
+     "bron": ("Allerhande", "https://www.ah.nl/allerhande/recept/R-R1192618/quinoasalade-met-linzen"),
+     "ing": [("quinoa", .1, "Quinoa"), ("linzen gekookt", .205, "Linzen (zak)"), ("mais", .2, "Maïs (of een maïskolf)"), ("feta", .1, "Witte kaas"), ("komkommer", .2, "Komkommer (half)"),
+             ("rode uien", .1, "Rode ui"), ("limoen", .035, "Limoen (half)"), OLIE(.0075, "Arachideolie"), _v("Rodewijnazijn", .05, 20)]},
+]
+NOTITIE_EXTRA = {
+    "courgette-bonensoep-geitenkaas": "Het recept van het Voedingscentrum is voor 2 personen; hier verdubbeld voor 4. Laat het stokbrood weg voor een glutenvrije maaltijd.",
+    "tomaat-paprikasoep-kip": "Het recept van HelloFresh is voor 1 persoon; hier keer 4.",
+    "visfilet-courgette-tomaat": "Het recept van het Voedingscentrum is voor 2 personen; hier verdubbeld voor 4.",
+    "groente-omelet": "Het recept van het Voedingscentrum is voor 2 personen; hier verdubbeld voor 4. Laat het brood weg voor een glutenvrije maaltijd.",
+    "ovenschotel-vis-snijbonen": "Het recept van het Voedingscentrum is voor 2 personen; hier verdubbeld voor 4. Laat de beschuit weg voor een glutenvrije maaltijd.",
+    "bloemkoolrijstbowl-kip-pindasaus": "Het recept is voor 2 personen; hier verdubbeld voor 4. Met glutenvrije tamari in plaats van sojasaus is dit gerecht glutenvrij.",
+    "bonensalade-tonijn": "Het recept van het Voedingscentrum is voor 2 personen; hier verdubbeld voor 4.",
+    "quinoasalade-linzen": "Het recept is voor 2 personen; hier verdubbeld voor 4.",
+    "kabeljauw-wortelpuree": "Met glutenvrij paneermeel is dit gerecht glutenvrij.",
+    "pompoensoep": "Het recept is voor 4 kommen soep; als hoofdgerecht verdubbeld voor 4 personen.",
+    "turkse-linzensoep": "Het recept is voor 5 personen; prijs en calorieën zijn omgerekend naar 4.",
+    "preischotel-aardappel": "Het recept is voor 2 personen; hier verdubbeld voor 4.",
+    "paella-met-kip": "Het recept is voor 2 personen; hier verdubbeld voor 4.",
+    "mexicaans-eenpansgerecht-rijst": "Het recept is voor 2 personen; hier verdubbeld voor 4. In plaats van Mexicaanse groenten uit blik kun je ook bruine of Mexicaanse bonen nemen.",
+    "quinoasalade-tonijn-avocado": "Het recept van het Voedingscentrum is voor 2 personen; hier verdubbeld voor 4.",
+    "ovenschotel-aardappel-kip": "Het recept is voor 2 à 3 personen; hier gerekend als 2 en verdubbeld voor 4.",
+    "aardappel-bloemkoolcurry-bief": "Het recept van het Voedingscentrum is voor 2 personen; hier verdubbeld voor 4.",
+    "roerbak-kip-krieltjes": "Het recept van het Voedingscentrum is voor 2 personen; hier verdubbeld voor 4.",
+    "shakshuka-paprika": "Het recept van het Voedingscentrum is voor 2 personen; hier verdubbeld voor 4. Laat de pita weg voor een glutenvrije maaltijd.",
+    "penne-tonijn-roerbakgroente": "Het recept van het Voedingscentrum is voor 2 personen; hier verdubbeld voor 4.",
+    "wraps-guacamole-kidneybonen": "Het recept van het Voedingscentrum is voor 2 personen; hier verdubbeld voor 4.",
+    "kip-tandoori-rijst": "Tandoori kruidenpasta is niet overal te koop; een zakje kruidenmix voor kip tandoori werkt ook.",
+    "volkorenspaghetti-courgette-champignons": "Je gebruikt alleen de dooiers van 5 eieren; de calorieën zijn gerekend met hele eieren, dus iets aan de hoge kant.",
+}

diff --git a/scripts/maaltijden.py b/scripts/maaltijden.py
@@ -86,7 +86,7 @@ I = {
     "kokosmelk": (["kokosmelk"], 180, None, ["drink", "light", "yoghurt", "ijs"]),
     "ananas": (["ananas stukjes", "ananas op sap", "ananas"], 60, None, ["sap", "drink", "gedroogd", "chips", "snoep", "pizza", "siroop", "banana", "haribo", "drop"]),
     "risottorijst": (["risottorijst", "risotto rijst", "arborio"], 350, None, ["kant", "maaltijd", "mix", "truffel", "paddenstoel"]),
-    "spinazie": (["spinazie", "verse spinazie"], 23, None, ["diepvries", "a la creme", "room", "blok", "gesneden blik", "pasta"]),
+    "spinazie": (["verse spinazie", "spinazie gewassen", "spinazie"], 23, None, ["hak", "glas", "pot", "diepvries", "a la creme", "room", "blok", "gesneden blik", "pasta"]),
     "tortilla wraps": (["tortilla wraps", "wraps naturel", "tortilla"], 300, .04, ["chips", "volkoren", "glutenvrij", "mais", "mini", "pizza"]),
     "bloemkool": (["bloemkool"], 25, 1.0, ["roosjes diepvries", "rijst", "puree", "soep", "kaas", "gratin"]),
     "feta": (["feta", "fetakaas", "salade blokjes"], 260, None, ["olie", "kruiden", "spread", "olijven", "light"]),
@@ -321,3 +321,8 @@ NOTITIE = {"couscous-kip-dadels": "Het recept van het Voedingscentrum is voor 2 
            "nasi-goreng": "Met kant-en-klare nasigroente in plaats van losse paprika en prei; dat is hoe de meeste mensen het kopen.",
            "erwtensoep": "Het recept is voor 4 tot 6 personen; hier gerekend als 4 flinke borden.",
            "lasagne": "Het recept (12 lasagnebladen) is voor ongeveer 6 personen; prijs en calorieën zijn omgerekend naar 4 personen."}
+
+# Extra recepten (glutenvrij en caloriearm), zie maaltijden_extra.py.
+from maaltijden_extra import I_EXTRA, MAALTIJDEN_EXTRA, NOTITIE_EXTRA, GLUTEN_EXTRA, LET_OP_EXTRA, LET_OP_WOORDEN_EXTRA
+I.update(I_EXTRA); MAALTIJDEN += MAALTIJDEN_EXTRA; NOTITIE.update(NOTITIE_EXTRA)
+GLUTEN |= GLUTEN_EXTRA; LET_OP |= LET_OP_EXTRA; LET_OP_WOORDEN += LET_OP_WOORDEN_EXTRA
